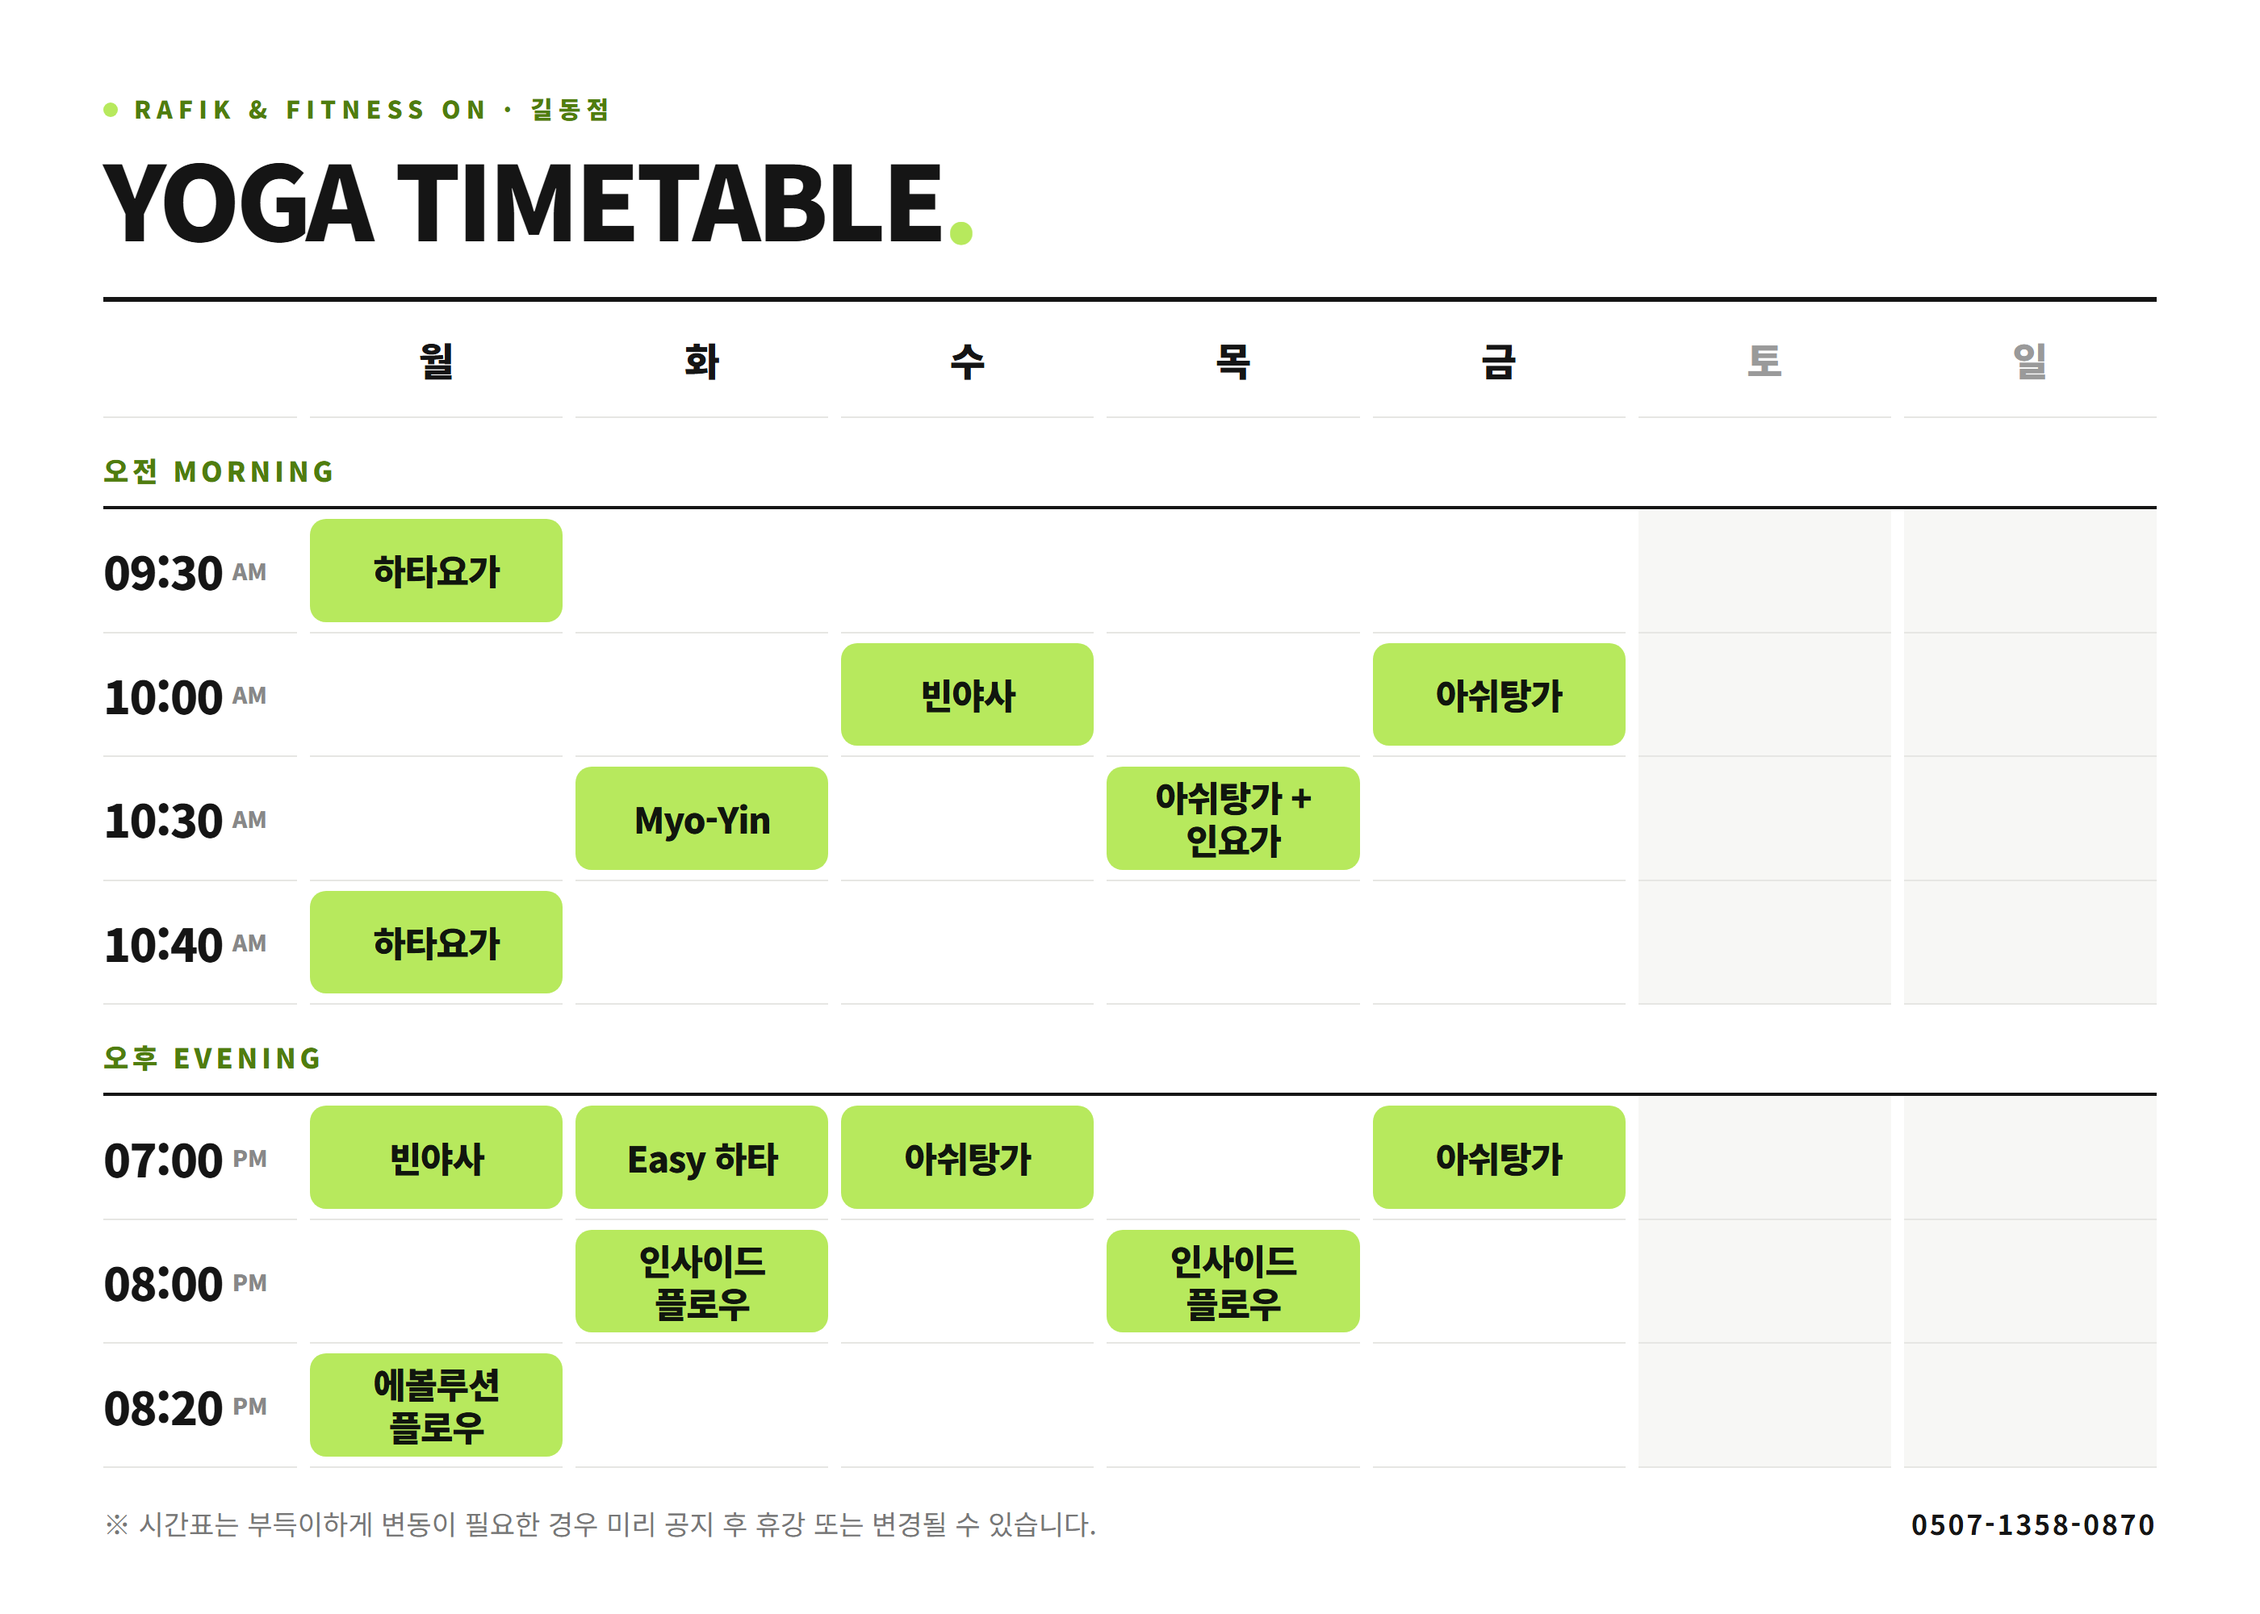
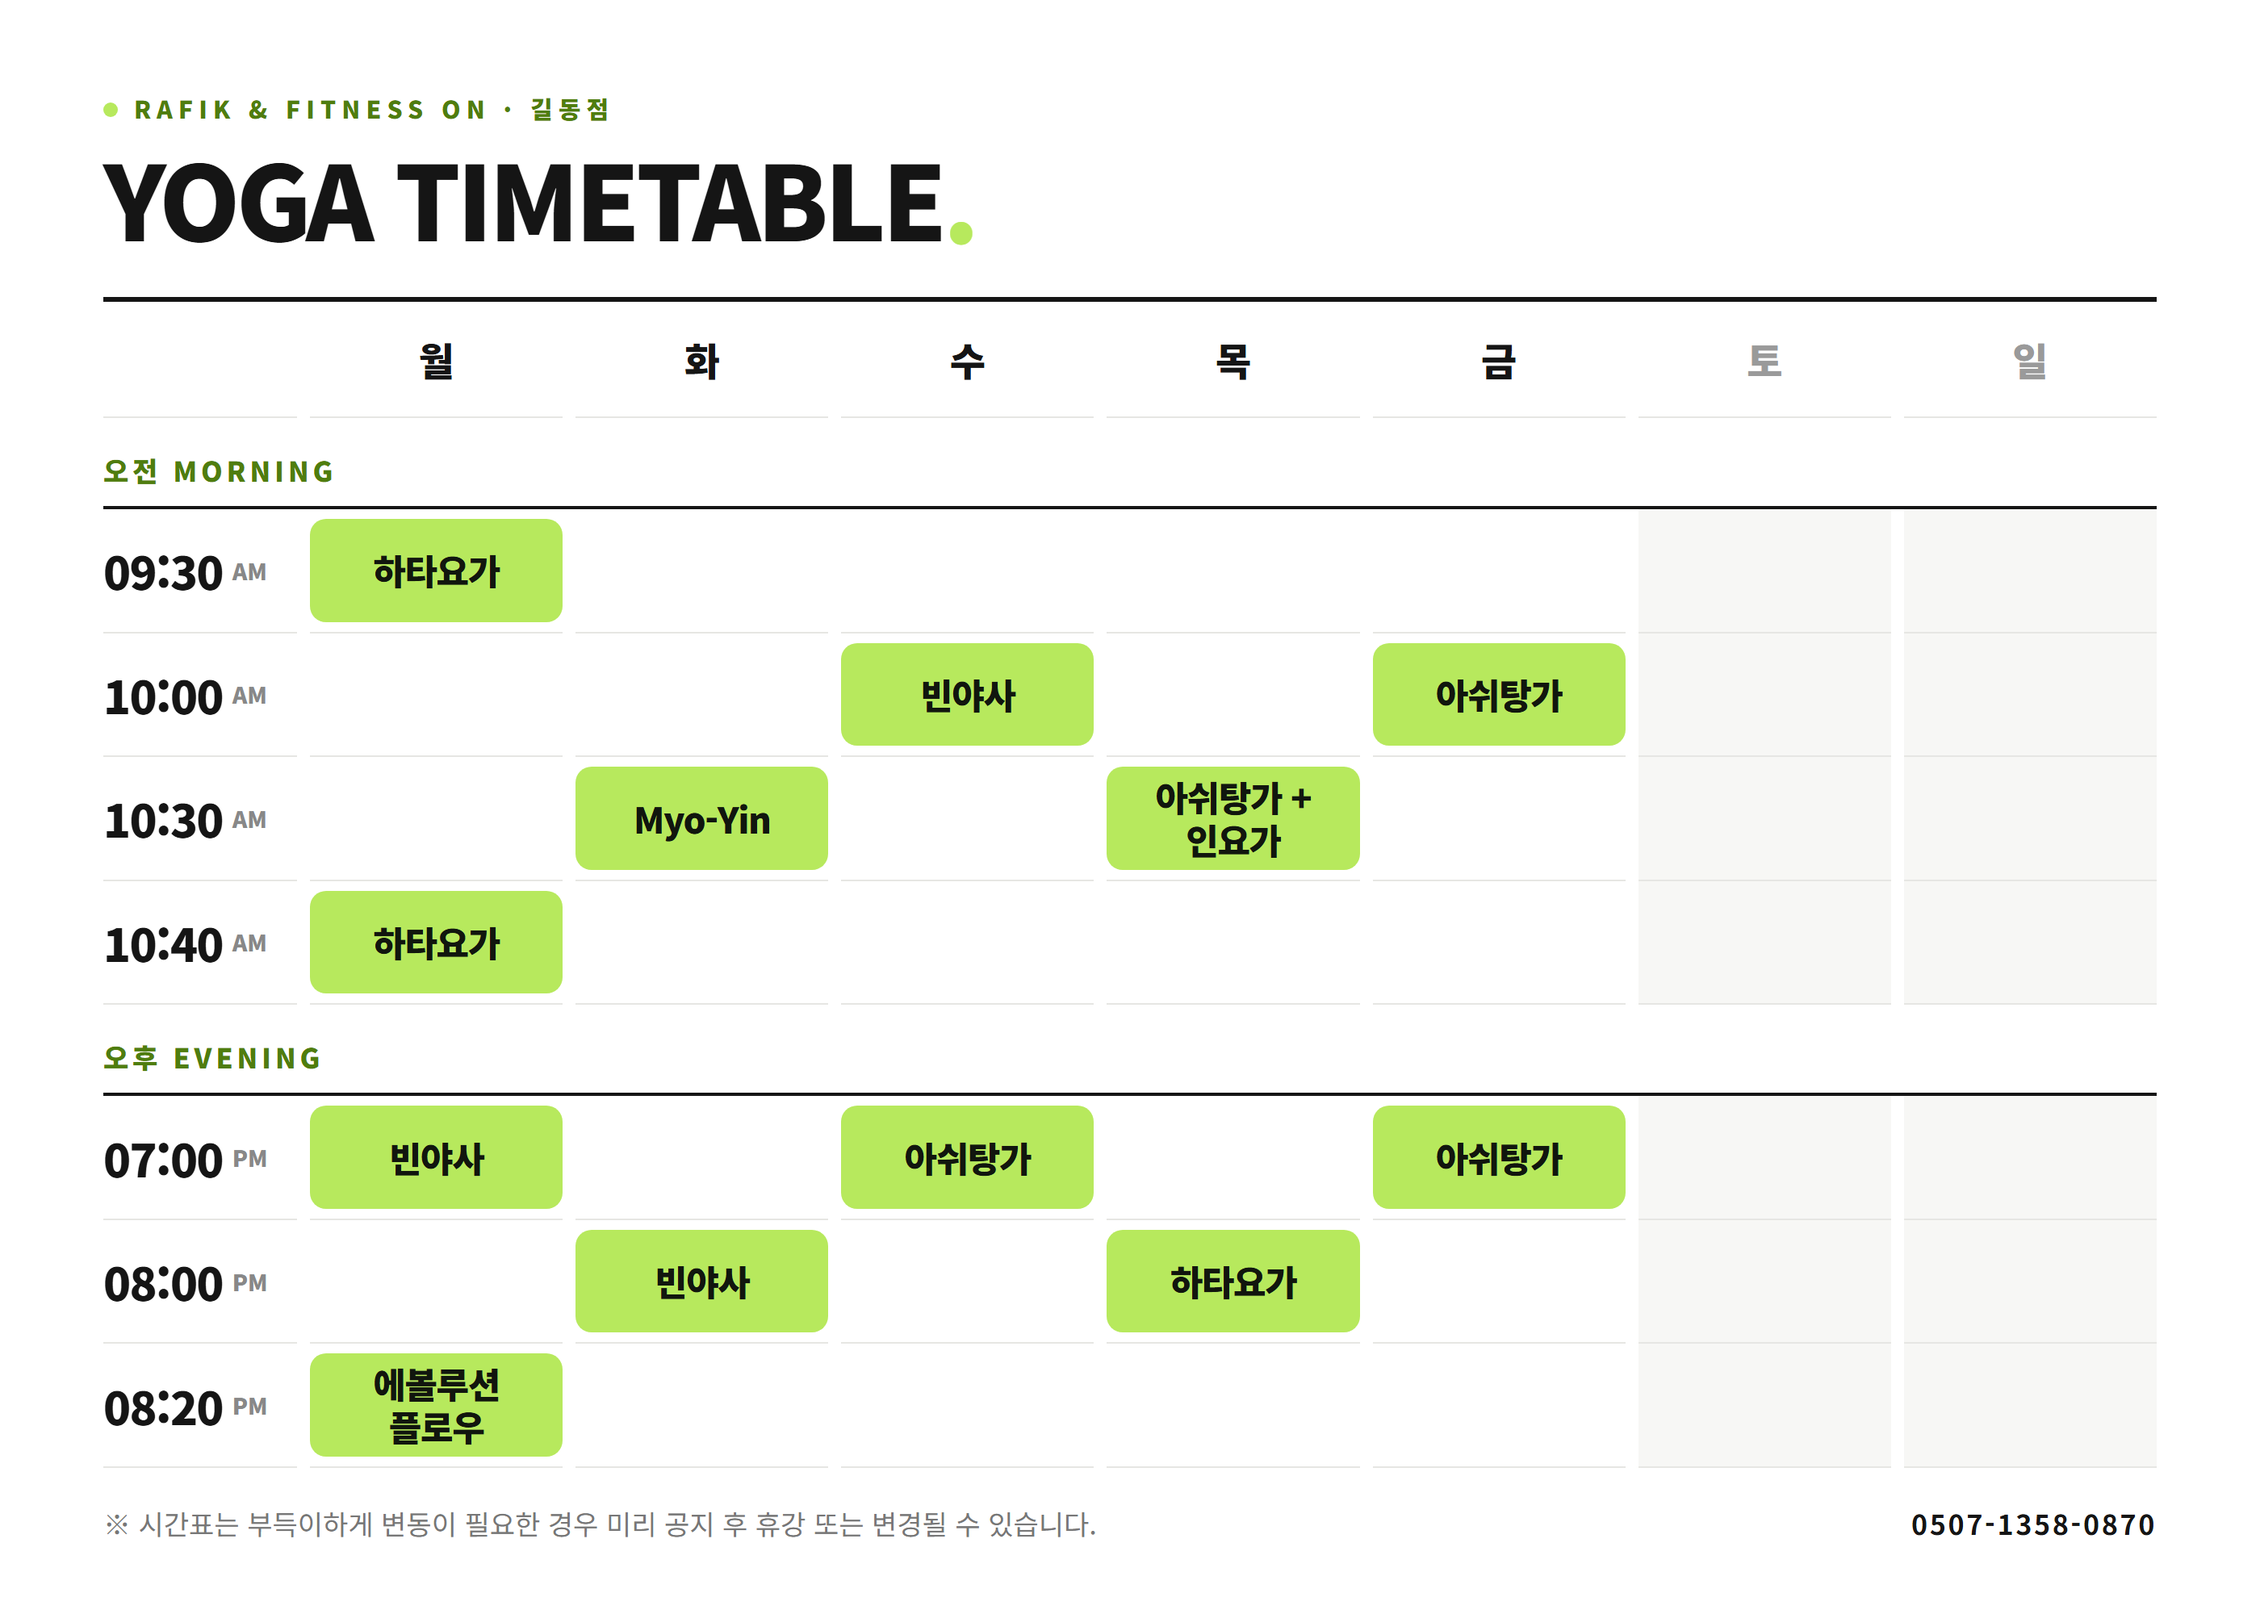
길동점 요가 시간표: 화·목 저녁 각 1타임으로 정리
- 화 19:00 Easy 하타 폐강, 화 20:00 빈야사
- 목 20:00 하타요가

Changed region(s): [[0.2486, 0.682, 0.3729, 0.837], [0.4971, 0.775, 0.5904, 0.837]]

diff --git a/tools/timetable-maker.html b/tools/timetable-maker.html
@@ -57,8 +57,8 @@ const TIMETABLE={
   ['10:00',['','','빈야사','','아쉬탕가','','']],
   ['10:30',['','Myo-Yin','','아쉬탕가 + 인요가','','','']],
   ['10:40',['하타요가','','','','','','']],
-  ['19:00',['빈야사','Easy 하타','아쉬탕가','','아쉬탕가','','']],
-  ['20:00',['','인사이드 플로우','','인사이드 플로우','','','']],
+  ['19:00',['빈야사','','아쉬탕가','','아쉬탕가','','']],
+  ['20:00',['','빈야사','','하타요가','','','']],
   ['20:20',['에볼루션 플로우','','','','','','']]]},
  'gildong-pilates':{title:'PILATES',month:'',types:{'캐포머':'lime','바렐&체어':'dark'},rows:[
   ['09:30',['캐포머','','바렐&체어','','캐포머','','']],
